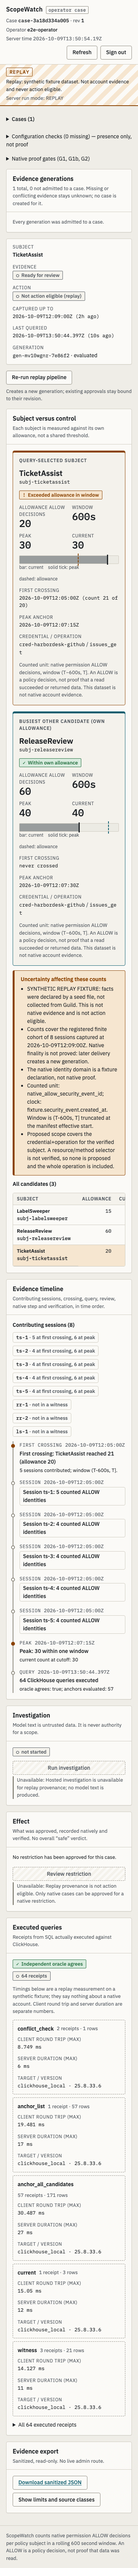
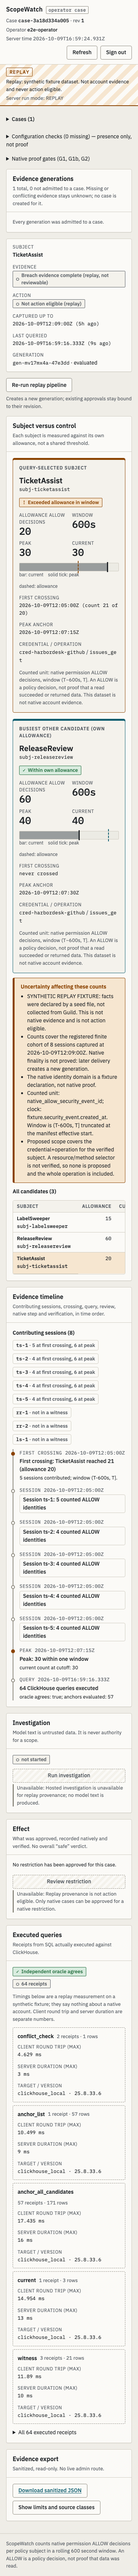
Re-run all local checks at main (5302154): ClickHouse suites, replay and e2e green on same-version native ClickHouse
Docker's VM still has I/O errors, so ClickHouse 25.8.33.6 ran as the official
native macOS binary (release digest verified) on loopback. Validator now skips
gitignored evidence/private raw captures. Screenshots refreshed from the passing
e2e run.

diff --git a/tools/validate_handoff.py b/tools/validate_handoff.py
@@ -8,10 +8,13 @@ import sys
 ROOT = Path(__file__).resolve().parents[1]
 # Event-build dependency/output/runtime directories are not packaged handoff documentation.
 GENERATED_DIRS = {'.git', 'node_modules', 'dist', 'runtime', 'test-results', 'playwright-report', '.scopewatch-run'}
+# Gitignored raw native captures (never committed; may hold non-JSON CLI output).
+PRIVATE_PREFIXES = {('evidence', 'private')}
 
 
 def skipped(path):
-    return any(part in GENERATED_DIRS for part in path.relative_to(ROOT).parts)
+    parts = path.relative_to(ROOT).parts
+    return any(part in GENERATED_DIRS for part in parts) or tuple(parts[:2]) in PRIVATE_PREFIXES
 
 
 errors = []

diff --git a/docs/BUILD_STATUS.md b/docs/BUILD_STATUS.md
@@ -16,22 +16,29 @@ from the loopback mock Guild API; every ClickHouse receipt is from a **local** C
 
 ## Final check receipts (committed tree)
 
-Run by the lead on 2026-10-09 ~13:52 UTC at commit `d819e75` (+ this doc), after a clean `npm ci`:
+Re-run by the lead on 2026-10-09 ~17:00 UTC at commit `5302154` on `main` (+ the validator skip and this doc), after a
+clean `npm ci`. Docker's VM still returns I/O errors, so ClickHouse ran as the **official native macOS binary of the
+same version** (`clickhouse-macos-aarch64` from release `v25.8.33.6-lts`, SHA-256 `9643585c…659f198` matching the
+release digest), loopback-only on 127.0.0.1:18123 with the compose admin user, provisioned by `npm run ch:setup` (exit 0).
+Still **local** ClickHouse, not Cloud.
 
 | Command | Exit | Result |
 |---|---|---|
 | `npm ci` | 0 | lockfile install |
 | `npm run typecheck` | 0 | TypeScript strict, whole repo |
 | `npm run lint` | 0 | ESLint, 0 errors / 0 warnings |
-| `npm test` (unit + client + integration + adversarial) | 0 | 17 files, **246 passed** |
-| `npm run test:ch` (local ClickHouse 25.8.33.6) | 0 | 3 files, **34 passed** |
+| `npm test` (unit + client + integration + adversarial) | 0 | 18 files, **250 passed** |
+| `npm run test:ch` (local ClickHouse 25.8.33.6) | 0 | 4 files, **37 passed** |
 | `npm run build` | 0 | server (tsc) + client (vite) |
-| `npm run test:e2e` (Playwright, real local server) | 0 | **37 passed** |
-| `npm run doctor` (replay, local CH env) | 0 | local prerequisites present |
+| `npm run test:e2e` (Playwright, real local server) | 0 | **37 passed**; screenshots refreshed from this run |
+| `npm run doctor` (replay, local CH env) | 0 | local prerequisites present (`clickhouse_local db=scopewatch_replay ping=ok`) |
 | `npm run doctor` (native) | 1 | correctly reports missing Guild/ClickHouse settings; native gates pending |
-| `python3 tools/validate_handoff.py` | 0 | research handoff docs/links/imports intact |
+| `python3 tools/validate_handoff.py` | 0 | research handoff docs/links/imports intact (now skips gitignored `evidence/private/` raw captures) |
 | `npm audit --omit=dev` | 0 | 0 vulnerabilities |
-| `npm run replay` | 0 | readback 5/5, 57 anchors, 64 queries, oracle agrees (see evidence bundle) |
+| `npm run replay` | 0 | readback 5/5 components, 57 anchors, 64 queries, oracle agrees; TicketAssist 21/20 at 12:05:00Z, peak 30 |
+
+Earlier receipts at `d819e75` (13:52 UTC, Docker ClickHouse): 246 / 34 / 37 — the deltas are the +4 native-shape unit
+tests and the +3 bench ClickHouse tests added afterwards.
 
 Independent receipts: acceptance (Sonnet) 37 e2e / 120 integration; devil (Opus) re-review 205 unit+integration,
 24 client, 34 ClickHouse — reports in [docs/reviews/event-build/](reviews/event-build/).
@@ -47,7 +54,7 @@ Independent receipts: acceptance (Sonnet) 37 e2e / 120 integration; devil (Opus)
 | Replay benchmark | 20k-unit smoke only (SQL == oracle, 63 checks; 244/244 query ids reconciled); full scale **not run** | [bench-local-2026-10-09](../evidence/sanitized/bench-local-2026-10-09/README.md) |
 | Demo | 2:21 local recording (replay + contract test, captioned non-native); one caption corrected by overlay | [EVENT_DEMO](demo/EVENT_DEMO.md), [evidence/demo](../evidence/demo/README.md) |
 | Submission | Draft only; video upload, reviewer access, team names/emails and the submission itself are human steps | [SUBMISSION_DRAFT](demo/SUBMISSION_DRAFT.md) |
-| Environment | During the full-scale benchmark the host disk filled; the Docker VM now returns I/O errors and the local ClickHouse container is unhealthy. Human chose not to restart Docker. **ClickHouse tests, `npm run replay` and e2e cannot be re-run until Docker is restarted**; their passing receipts above predate the incident. Local CH data may need `npm run ch:down && npm run ch:up && npm run ch:setup` afterwards. | — |
+| Environment | During the full-scale benchmark the host disk filled; the Docker VM still returns I/O errors (container remove and image read fail). Human chose not to restart Docker Desktop. All ClickHouse-dependent checks were then **re-run green** against the same-version native ClickHouse binary (receipts above). After a Docker restart, `npm run ch:down && npm run ch:up && npm run ch:setup` restores the compose setup. | — |
 
 ## Team and models (actual)
 
